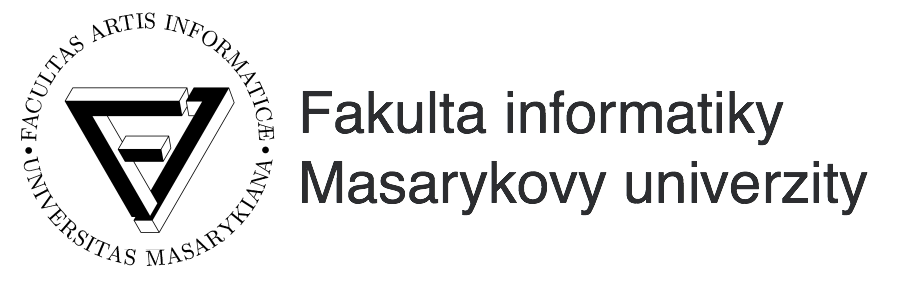
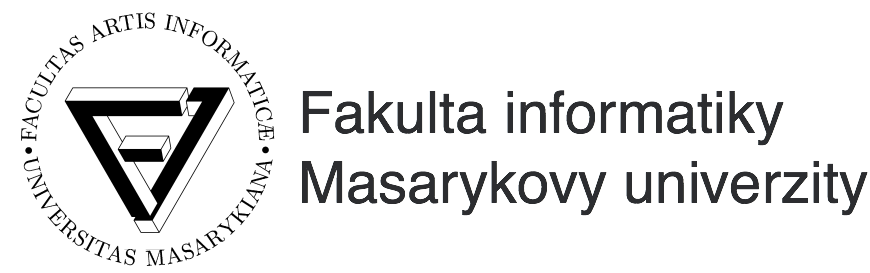
Fix fonts and design

Changed region(s): [[0.0, 0.0293, 1.0, 0.967]]

diff --git a/brno.html b/brno.html
@@ -29,11 +29,9 @@
 
 	<div class="partners">
         <div class="row">
-        <div class="col-lg-2 col-sm-2 col-xs-4"><img class="partner" src="assets/images/muni.png">
-        </div>
-	
-        <div class="col-lg-2 col-sm-2 col-xs-4"><img class="partner" src="assets/images/honeywell.jpg" width="80%" style="margin-top: 10px;"></div>
-         <div class="col-lg-2 col-sm-2 col-xs-4"><img class="partner" src="assets/images/ysoft.png" width="90%" style="margin-top: 13px;"></div>
+            <div class="col-lg-4 col-sm-3 col-xs-3"><a href="https://www.fi.muni.cz/"><img class="partner" src="assets/images/muni.png"></a></div>
+            <div class="col-lg-3 col-sm-3 col-xs-3"><a href="http://www.honeywell.com/worldwide/emea/czech-republic-cz"><img class="partner partner-big" src="assets/images/honeywell.jpg" style="margin-top: 5px;"></a></div>
+            <div class="col-lg-3 col-sm-3 col-xs-3"><a href="https://www.ysoft.com/en"><img class="partner partner-big" src="assets/images/ysoft.png" style="margin-top: 5px;"></a></div>
         </div>
 	</div>
 
@@ -199,7 +197,7 @@ Nemusíš být génius, abys uměla programovat. Stačí mít přesvědčení, m
 				</p>
 				<h4>Kdo zajišťuje program?</h4>
 				<p>
-					Přednáškovou část zajišťuje organizační tým z neziskové organizace Czechitas s pomocí lektorů, studentů informačních technologií a odborníků z praxe. Odbornou část doplňují exkurze, interaktivní hry a vstupy partnerů Fakulta informatiky MU, Konica Minolta aj. Na volných aktivitách se podílejí studenti pedagogických a volnočasových oborů s dlouholetou praxí. Večerní dohled je zajištěn organizací Czechitas.
+					Přednáškovou část zajišťuje organizační tým z neziskové organizace Czechitas s pomocí lektorů, studentů informačních technologií a odborníků z praxe. Odbornou část doplňují exkurze, interaktivní hry a vstupy partnerů Fakulta informatiky MU, Honeywell, Y Soft, Konica Minolta aj. Na volných aktivitách se podílejí studenti pedagogických a volnočasových oborů s dlouholetou praxí. Večerní dohled je zajištěn organizací Czechitas.
 				</p>
 				<h4>Vyplnil/a jsem přihlášku a zaplatila poplatek. Potřebuju vyplnit ještě nějaké formuláře?</h4>
 				<p>Kromě registračního fomuláře, který je nutné vyplnit společně s přihláškou, je třeba první den donést vytisknuté a podepsané následující formuláře: potvrzení od lékaře a potvrzení o bezinfekčnosti a dobrozdání rodiče. Dokumenty pošleme emailem.
@@ -213,36 +211,35 @@ Nemusíš být génius, abys uměla programovat. Stačí mít přesvědčení, m
 				<img src="assets/images/brno.JPG" width="100%">
 				<h4>8. 8. 2016 pondělí</h4>
 				<ul>
-					<li>Vytvoříme statické webové stránky.
-						Takovou osobní vizitku: Úvod do HTML/CSS.
+					<li>Vytvoříme statické webové stránky. Takovou osobní vizitku: Úvod do HTML/CSS. Večer tě čekají zábavné IT bojovky na seznámení.
 					</li>
 				</ul>
 
 				<h4>9. 8. 2016 úterý</h4>
 				<ul>
 					<li>
-						Oživíme a obarvíme stránky a přidáme jim dynamiku. Vytvoříme si své nové já ve vektorové grafice.
+						Oživíme a obarvíme stránky a přidáme jim dynamiku. Vytvoříme si své nové já ve vektorové grafice. Navštívme aerospace prostory v <a href="http://www.honeywell.com/worldwide/emea/czech-republic-cz">Honeywell.</a>
 					</li>
 				</ul>
 
 				<h4>10. 8. 2016 středa</h4>
 				<ul>
 					<li>
-Užijeme si ochutnávku několika aktivit z dílen laboratoří fakulty informatiky MU. Co si pod tím představit? Třeba nahlédnutí pod pokličku virtuální reality.
+Užijeme si ochutnávku několika aktivit z dílen laboratoří fakulty informatiky MU. Co si pod tím představit? Třeba nahlédnutí pod pokličku virtuální reality. Večer ti průvodci z <a href="http://kymcimbyt.cz/">Kým čím být</a> ukáží možnosti vlastního kariérního směřování prostřednictvím zážitkových aktivit.
 					</li>
 				</ul>
 
 				<h4>11. 8. 2016 čtvrtek</h4>
 				<ul>
 					<li>
-						Vytvoříme první aplikaci: základy programování v Javascriptu.
+						Vytvoříme první aplikaci: základy programování v Javascriptu nebo se můžeš vrhnout na Arduino - elektronickou stavebnici. Večer ti ukážeme prostory <a href="https://www.ysoft.com/en">Y Softu</a> a vyzkoušíš si u nich například 3D tisk.
 					</li>
 				</ul>
 
 				<h4>12. 8. 2016 pátek</h4>
 				<ul>
 					<li>
-						Závěrečný hackaton a party v Impact Hubu. V týmech vytvoříme stránky nebo aplikaci a budeme soutěžit o ceny.
+						Závěrečný hackathon a party v Impact Hubu. V týmech vytvoříme stránky nebo aplikaci a budeme soutěžit o ceny.
 					</li>
 				</ul>
 
@@ -287,7 +284,7 @@ Užijeme si ochutnávku několika aktivit z dílen laboratoří fakulty informat
                 <h4 class="text-center space-before">Barbora Buhnová, organizátor, Czechitas, baru@czechitas.cz</h4>
                 <img class="img-feature img-responsive space-after" src="assets/images/bara.png" alt="Bara">
                 <p>
-                    Bára bude po celou dobu konání letní školy v Brně naší spojkou s Masarykovou univerzitou, která bude od pondělí do čtvrtku letní školu hostovat, a to přímo na fakultě informatiky. Bára vám ale pomůže nejen s orientací po univerzitě, ale i s orientací v IT obecně, zvlášť pokud se nám podaří zaujmout vás natolik, že se budete chtít dozvědět více o vysokoškolském studiu IT oborů. Kontaktovat ji můžete na: <a href="mailto:baru@czechitas.cz" target="_top">baru@czechitas.cz</a>
+                    Bára bude po celou dobu konání letní školy v Brně naší spojkou s Masarykovou univerzitou, která bude od pondělí do čtvrtku letní školu hostovat, a to přímo na Fakultě informatiky MU. Bára vám ale pomůže nejen s orientací po univerzitě, ale i s orientací v IT obecně, zvlášť pokud se nám podaří zaujmout vás natolik, že se budete chtít dozvědět více o vysokoškolském studiu IT oborů. Kontaktovat ji můžete na: <a href="mailto:baru@czechitas.cz" target="_top">baru@czechitas.cz</a>
                 </p>
 
 			</div>
@@ -304,6 +301,8 @@ Užijeme si ochutnávku několika aktivit z dílen laboratoří fakulty informat
                     <h2>Podporují nás:</h2>
 					<img width="250" class="img-feature img-responsive space-after" src="assets/images/konica.png" alt="partner">
                     <img width="120" class="img-feature img-responsive space-after" src="assets/images/impact.jpg" alt="partner">
+                    <img width="120" class="img-feature img-responsive space-after" src="assets/images/kymcim.jpg" alt="partner">
+                    <img width="180" class="img-feature img-responsive space-after" src="assets/images/ipex.png" alt="partner">
                   
                 
 

diff --git a/praha.html b/praha.html
@@ -29,17 +29,17 @@
 
 	<div class="partners">
         <div class="row">
-          <div class="col-lg-3 col-sm-3 col-xs-6"><img class="partner" src="assets/images/cvut.jpg"></div>
-		  <div class="col-lg-3 col-sm-3 col-xs-6"><img class="partner" src="assets/images/microsoft.png"></div>
-		  <div class="col-lg-3 col-sm-3 col-xs-4"><img class="partner" src="assets/images/konica.png"></div>
-		  <div class="col-lg-3 col-sm-3 col-xs-4"><img class="partner" src="assets/images/muni.png"></div>
+            <div class="col-lg-3 col-sm-3 col-xs-3"><a href="https://www.cvut.cz/"><img class="partner" src="assets/images/cvut.jpg"></a></div>
+		  <div class="col-lg-3 col-sm-3 col-xs-3"><a href="https://www.microsoft.com/cs-cz"><img class="partner" src="assets/images/microsoft.png"></a></div>
+		  <div class="col-lg-3 col-sm-3 col-xs-3"><a href="https://www.konicaminolta.eu/en/home.html"><img class="partner" src="assets/images/konica.png"></a></div>
+		  <div class="col-lg-3 col-sm-3 col-xs-3"><a href="https://www.fi.muni.cz/"><img class="partner" src="assets/images/muni.png"></a></div>
 		 
         </div>
         
         <div class="row">
-            <div class="col-lg-2 col-sm-3 col-xs-6"><img class="partner" src="assets/images/ysoft.png" width="70%" style="margin-top: 10px;"></div>
-             <div class="col-lg-3 col-sm-3 col-xs-4"><img class="partner" src="assets/images/concur.png" width="40%" style="margin-top: 5px;"></div>
-            <div class="col-lg-3 col-sm-3 col-xs-4"><img class="partner" src="assets/images/honeywell.jpg" width="50%" style="margin-top: 7px;"></div>
+            <div class="col-lg-3 col-sm-3 col-xs-3"><a href="https://www.ysoft.com/en"><img class="partner partner-big" src="assets/images/ysoft.png" style="margin-top: 10px;"></a></div>
+             <div class="col-lg-3 col-sm-3 col-xs-3"><a href="https://www.concur.com/"><img class="partner partner-big" src="assets/images/concur.png" style="margin-top: 5px;"></a></div>
+            <div class="col-lg-3 col-sm-3 col-xs-3"><a href="http://www.honeywell.com/worldwide/emea/czech-republic-cz"><img class="partner partner-big" src="assets/images/honeywell.jpg"  style="margin-top: 7px;"></a></div>
         </div>
 		    
 	</div>
@@ -65,15 +65,14 @@
 			</div>
 		</div>
 
-	</div>
-
-	<div class="menu">
-		<a href="#intro">ÚVOD</a>  |
-		<a href="#important">DŮLEŽITÉ INFORMACE</a>  |
-		<a href="#info">INFO PRO RODIČE A PROGRAM</a>  |
-		<a href="#references">JAK TO VYPADALO LONI</a>  |
-		<a href="#team">NÁŠ TÝM A SPONZOŘI</a>  |
-		<a href="#footer">KONTAKTY A O CZECHITAS</a>
+        <div class="menu row">
+            <a href="#intro">ÚVOD</a>  |
+            <a href="#important">DŮLEŽITÉ INFORMACE</a>  |
+            <a href="#info">INFO PRO RODIČE A PROGRAM</a>  |
+            <a href="#references">JAK TO VYPADALO LONI</a>  |
+            <a href="#team">NÁŠ TÝM A SPONZOŘI</a>  |
+            <a href="#footer">KONTAKTY A O CZECHITAS</a>
+	    </div>
 	</div>
 </header>
 <!-- /Header -->

diff --git a/assets/css/styles.css b/assets/css/styles.css
@@ -1,9 +1,13 @@
 /********************************************************/
 /*                 Page background                      */
 /********************************************************/
+
+
+@font-face { font-family: Perfograma; src: url('../fonts/Perfograma_1.otf'); }
+@font-face { font-family: Cocon; src: url('../fonts/CoconPro-Regular_1.otf'); }
+
 body, .content {
-	@font-face { font-family: Perfograma; src: url('../fonts/Perfograma_1.otf'); }
-	@font-face { font-family: Cocon; src: url('../fonts/CoconPro-Regular_1.otf'); }
+    font-family: "Open sans", Helvetica, Arial;
 	background: #fff;
 	color:#333;
 }
@@ -13,8 +17,9 @@ body, .content {
 /*                     Typography                       */
 /********************************************************/
 h1, h2, h3, h4, h5, h6 {
-	font-family: "Open sans", Helvetica, Arial;
+	font-family: Cocon;
 	font-weight: 300;
+    color: #e5007d;
 }
 
 p, .jumbotron p {
@@ -27,7 +32,7 @@ p, .jumbotron p {
 /********************************************************/
 
 .header h1 {
-	font-family: "Open sans", Arial;
+	font-family: Perfograma;
 	font-size: 40px;
 	font-weight: bold;
 	margin: 35px 0 10px 0;
@@ -37,7 +42,7 @@ p, .jumbotron p {
 }
 .header h2 {
 	color: rgba(255,255,255,.9);
-	font-family: Georgia;
+	font-family: Cocon;
 	font-size: 17px;
 	font-weight: normal;
 	margin: 0 0 25px 0;
@@ -46,7 +51,7 @@ p, .jumbotron p {
 }
 .header p { font-size: 15px; line-height: 1.2em;}
 .header .lead {
-	font-family: "Open sans", Arial;
+    font-family: Cocon;
 	color: rgba(255,255,255,.9);
 	line-height: 1.2em;
 	font-size: 18px;
@@ -77,7 +82,7 @@ p, .jumbotron p {
 	background:#f5f5f5;
 }
 
-.content .lead { font-family: Georgia; font-style: italic; color:#999; }
+.content .lead { font-style: italic; color:#999; }
 
 .space-before { padding-top:20px; }
 .space-after { padding-bottom:20px; }
@@ -175,11 +180,6 @@ a:visited { color: #5A8B86; }
 
 .header h1 { color:white; font-family: Perfograma; }
 
-h1, h2, h3, h4, h5, h6 {
-	color: #e5007d;
-	font-family: "Open sans";
-}
-
 a{ color: #e5007d; }
 a:hover, a:focus { color: #2d2d82; }
 a:visited { color: #877680; }
@@ -201,10 +201,16 @@ a:visited { color: #877680; }
 
 img.partner {
 	max-width: 100%;
-	max-height: 60px;
+	max-height: 40px;
 	margin: auto;
 	padding: 6px;
 }
+
+
+@media (min-width: 992px) {
+	img.partner-big { width: 20%;}
+}
+
 
 .references {
 	background-color: #03124A;
@@ -220,6 +226,7 @@ img.partner {
 	background-color: #e5007d;
 	color: white;
 	border-color: #e5007d;
+    font-family: Perfograma;
 }
 
 .btn-primary:hover {
@@ -235,20 +242,9 @@ img.partner {
 	color: #e5007d;
 	text-align: center;
 	width: 100%;
-	position: absolute;
-	bottom: 0;
-}
-
-.image-strip {
-	background: url(../images/2.jpg) bottom center;
-	background-repeat: no-repeat;
-	background-size: cover;
-	height: 90px;
-	width: 100%;
 }
 
 header {
-	height: 100vh;
 }
 
 /*INDEX PAGE */

diff --git a/index.html b/index.html
@@ -27,17 +27,17 @@
 <header class="header header-index">
 	<div class="partners">
         <div class="row">
-          <div class="col-lg-3 col-sm-3 col-xs-6"><img class="partner" src="assets/images/cvut.jpg"></div>
-		  <div class="col-lg-3 col-sm-3 col-xs-6"><img class="partner" src="assets/images/microsoft.png"></div>
-		  <div class="col-lg-3 col-sm-3 col-xs-4"><img class="partner" src="assets/images/konica.png"></div>
-		  <div class="col-lg-3 col-sm-3 col-xs-4"><img class="partner" src="assets/images/muni.png"></div>
+            <div class="col-lg-3 col-sm-3 col-xs-3"><a href="https://www.cvut.cz/"><img class="partner" src="assets/images/cvut.jpg"></a></div>
+		  <div class="col-lg-3 col-sm-3 col-xs-3"><a href="https://www.microsoft.com/cs-cz"><img class="partner" src="assets/images/microsoft.png"></a></div>
+		  <div class="col-lg-3 col-sm-3 col-xs-3"><a href="https://www.konicaminolta.eu/en/home.html"><img class="partner" src="assets/images/konica.png"></a></div>
+		  <div class="col-lg-3 col-sm-3 col-xs-3"><a href="https://www.fi.muni.cz/"><img class="partner" src="assets/images/muni.png"></a></div>
 		 
         </div>
         
         <div class="row">
-            <div class="col-lg-2 col-sm-3 col-xs-6"><img class="partner" src="assets/images/ysoft.png" width="70%" style="margin-top: 10px;"></div>
-             <div class="col-lg-3 col-sm-3 col-xs-4"><img class="partner" src="assets/images/concur.png" width="40%" style="margin-top: 5px;"></div>
-            <div class="col-lg-3 col-sm-3 col-xs-4"><img class="partner" src="assets/images/honeywell.jpg" width="50%" style="margin-top: 7px;"></div>
+            <div class="col-lg-3 col-sm-3 col-xs-3"><a href="https://www.ysoft.com/en"><img class="partner partner-big" src="assets/images/ysoft.png" style="margin-top: 10px;"></a></div>
+             <div class="col-lg-3 col-sm-3 col-xs-3"><a href="https://www.concur.com/"><img class="partner partner-big" src="assets/images/concur.png" style="margin-top: 5px;"></a></div>
+            <div class="col-lg-3 col-sm-3 col-xs-3"><a href="http://www.honeywell.com/worldwide/emea/czech-republic-cz"><img class="partner partner-big" src="assets/images/honeywell.jpg"  style="margin-top: 7px;"></a></div>
         </div>
 		    
 	</div>
